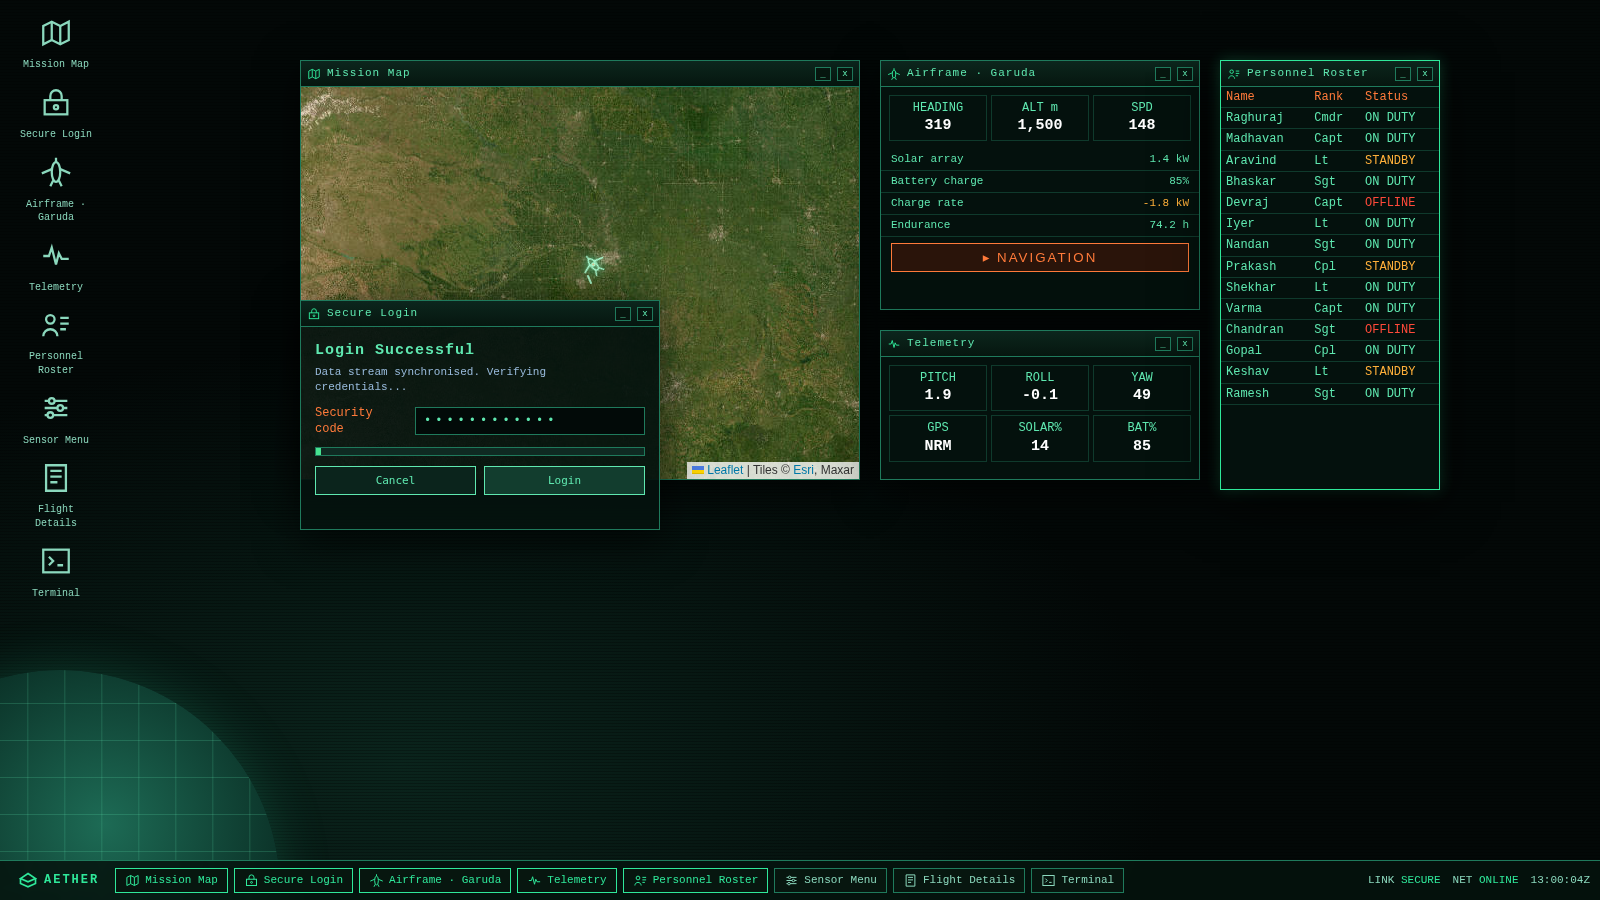
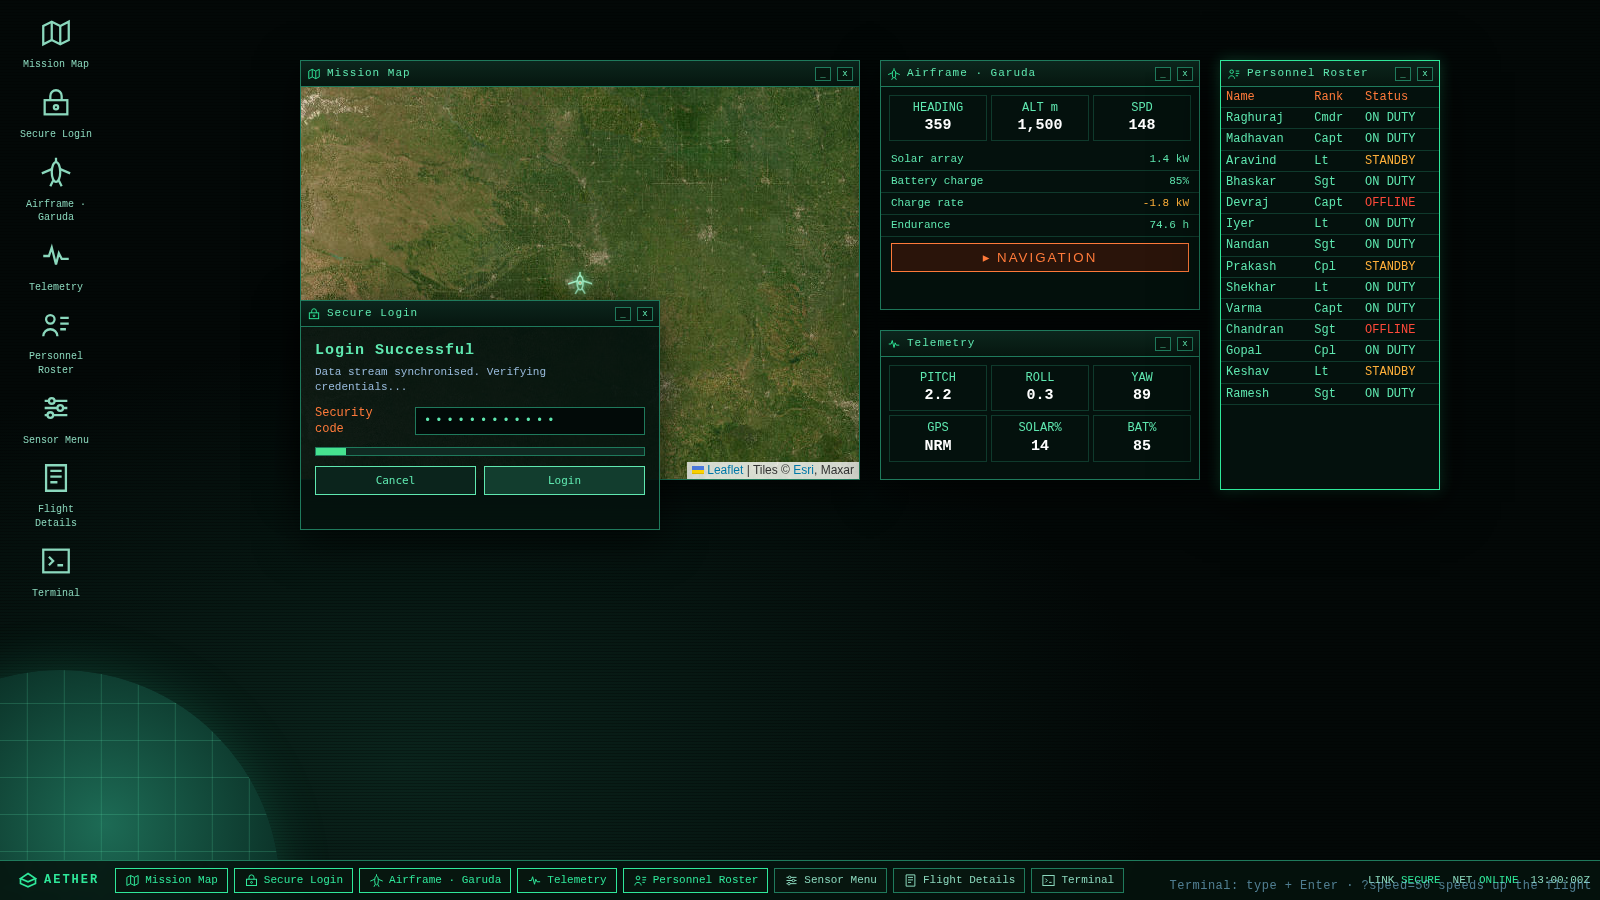
Add on-screen interaction hints

diff --git a/craft-schematic-display/index.html b/craft-schematic-display/index.html
@@ -33,4 +33,5 @@ document.onkeydown=e=>{if(e.code=="Space")sel((cur+1)%keys.length)};setInterval(
 function bars(){fc.innerHTML=["fc-1","fc-2","fc-3","fc-4","fc-5","fc-6","fc-7"].map(n=>{const v=50+Math.random()*45|0;return`<div class="br"><span style="width:34px">${n}</span><i style="width:${v*1.4}px"></i>${v}%</div>`}).join("");
 pb.innerHTML=["bus a","bus b","ess","aux","bat"].map(n=>`<div class="br"><span style="width:40px">${n}</span>${(27+Math.random()*1.5).toFixed(1)} v</div>`).join("")}
 bars();setInterval(bars,2500);
-</script></body></html>
+</script><div id="ui-hint" style="position:fixed;right:8px;bottom:6px;z-index:9999;font:11px/1.3 inherit;font-family:inherit;color:#7fe8ff;opacity:.55;pointer-events:none;letter-spacing:.04em">Space or click a part to highlight</div>
+</body></html>

diff --git a/drone-console/index.html b/drone-console/index.html
@@ -257,4 +257,5 @@ function run(){
  else{dlg.classList.add('alert');title.textContent='Unauthorized Access';sub.textContent='Access attempt detected - further attempts not permitted!!';pbar.style.background='#ff3a2a';pbar.style.width='100%';stat.className='bad';stat.textContent='LINK: BREACH';title.classList.add('blink');setTimeout(()=>{title.classList.remove('blink');step=0;run()},3500);}
 }
 run();$('cancel').onclick=()=>{step=0;run()};$('login').onclick=()=>{step=0;run()};
-</script></body></html>
+</script><div id="ui-hint" style="position:fixed;right:8px;bottom:6px;z-index:9999;font:11px/1.3 inherit;font-family:inherit;color:#7fdcff;opacity:.55;pointer-events:none;letter-spacing:.04em">?speed=50 speeds up the flight</div>
+</body></html>

diff --git a/self-organizing-system/index.html b/self-organizing-system/index.html
@@ -211,4 +211,5 @@ document.addEventListener('keydown',e=>{if(e.key.toLowerCase()==='m'){if(cycle){
 if(forced==='b'){startA();stopA();document.getElementById('modeA').style.opacity=0;mode='B';document.getElementById('modeB').style.opacity=1;buildBlueprint();}
 else if(forced==='a'){setMode('A');}
 else{setMode('A');cycle=setInterval(()=>{toggle();if(mode==='B')setTimeout(()=>{if(mode==='B')buildBlueprint();},100);},16000);}
-</script></body></html>
+</script><div id="ui-hint" style="position:fixed;right:8px;bottom:6px;z-index:9999;font:11px/1.3 inherit;font-family:inherit;color:#9fd0ff;opacity:.55;pointer-events:none;letter-spacing:.04em">M switches code / blueprint · ?mode=blueprint</div>
+</body></html>

diff --git a/aether-os/index.html b/aether-os/index.html
@@ -190,4 +190,5 @@ function setNet(s){$('net').innerHTML='NET <span class="v">'+s+'</span>'}
 setInterval(()=>$('clk').textContent=new Date(simMs).toUTCString().slice(17,25)+'Z',500);
 // autostart several windows
 ['map','login','air','tele','roster'].forEach(id=>makeWin(APPS.find(a=>a.id===id)));
-</script></body></html>
+</script><div id="ui-hint" style="position:fixed;right:8px;bottom:6px;z-index:9999;font:11px/1.3 inherit;font-family:inherit;color:#8fd8ff;opacity:.55;pointer-events:none;letter-spacing:.04em">Terminal: type + Enter · ?speed=50 speeds up the flight</div>
+</body></html>

diff --git a/verdant-os/index.html b/verdant-os/index.html
@@ -167,4 +167,5 @@ function setNet(s){document.getElementById('net').innerHTML='NET <span class="v"
 setInterval(()=>document.getElementById('clk').textContent=new Date().toTimeString().slice(0,8),500);
 // autostart a few windows
 makeWin(APPS[0]);makeWin(APPS[3]);makeWin(APPS[1]);makeWin(APPS[5]);
-</script></body></html>
+</script><div id="ui-hint" style="position:fixed;right:8px;bottom:6px;z-index:9999;font:11px/1.3 inherit;font-family:inherit;color:#9fe39f;opacity:.55;pointer-events:none;letter-spacing:.04em">Terminal: type a command + Enter</div>
+</body></html>

diff --git a/README.md b/README.md
@@ -37,6 +37,7 @@ Clone or download the repo and open any folder's `index.html` in a browser. No b
 Map views use public map data when online and fall back to generated maps offline.
 
 ### URL parameters & keys
+Each of these mockups also shows a small hint in its bottom-right corner.
 - `drone-console`, `aether-os`: `?speed=50` speeds up the simulated flight.
 - `self-organizing-system`: press **M** to switch between code and blueprint mode; `?mode=` forces a mode.
 - `craft-schematic-display`: **Space** or click a part to highlight a subsystem.
